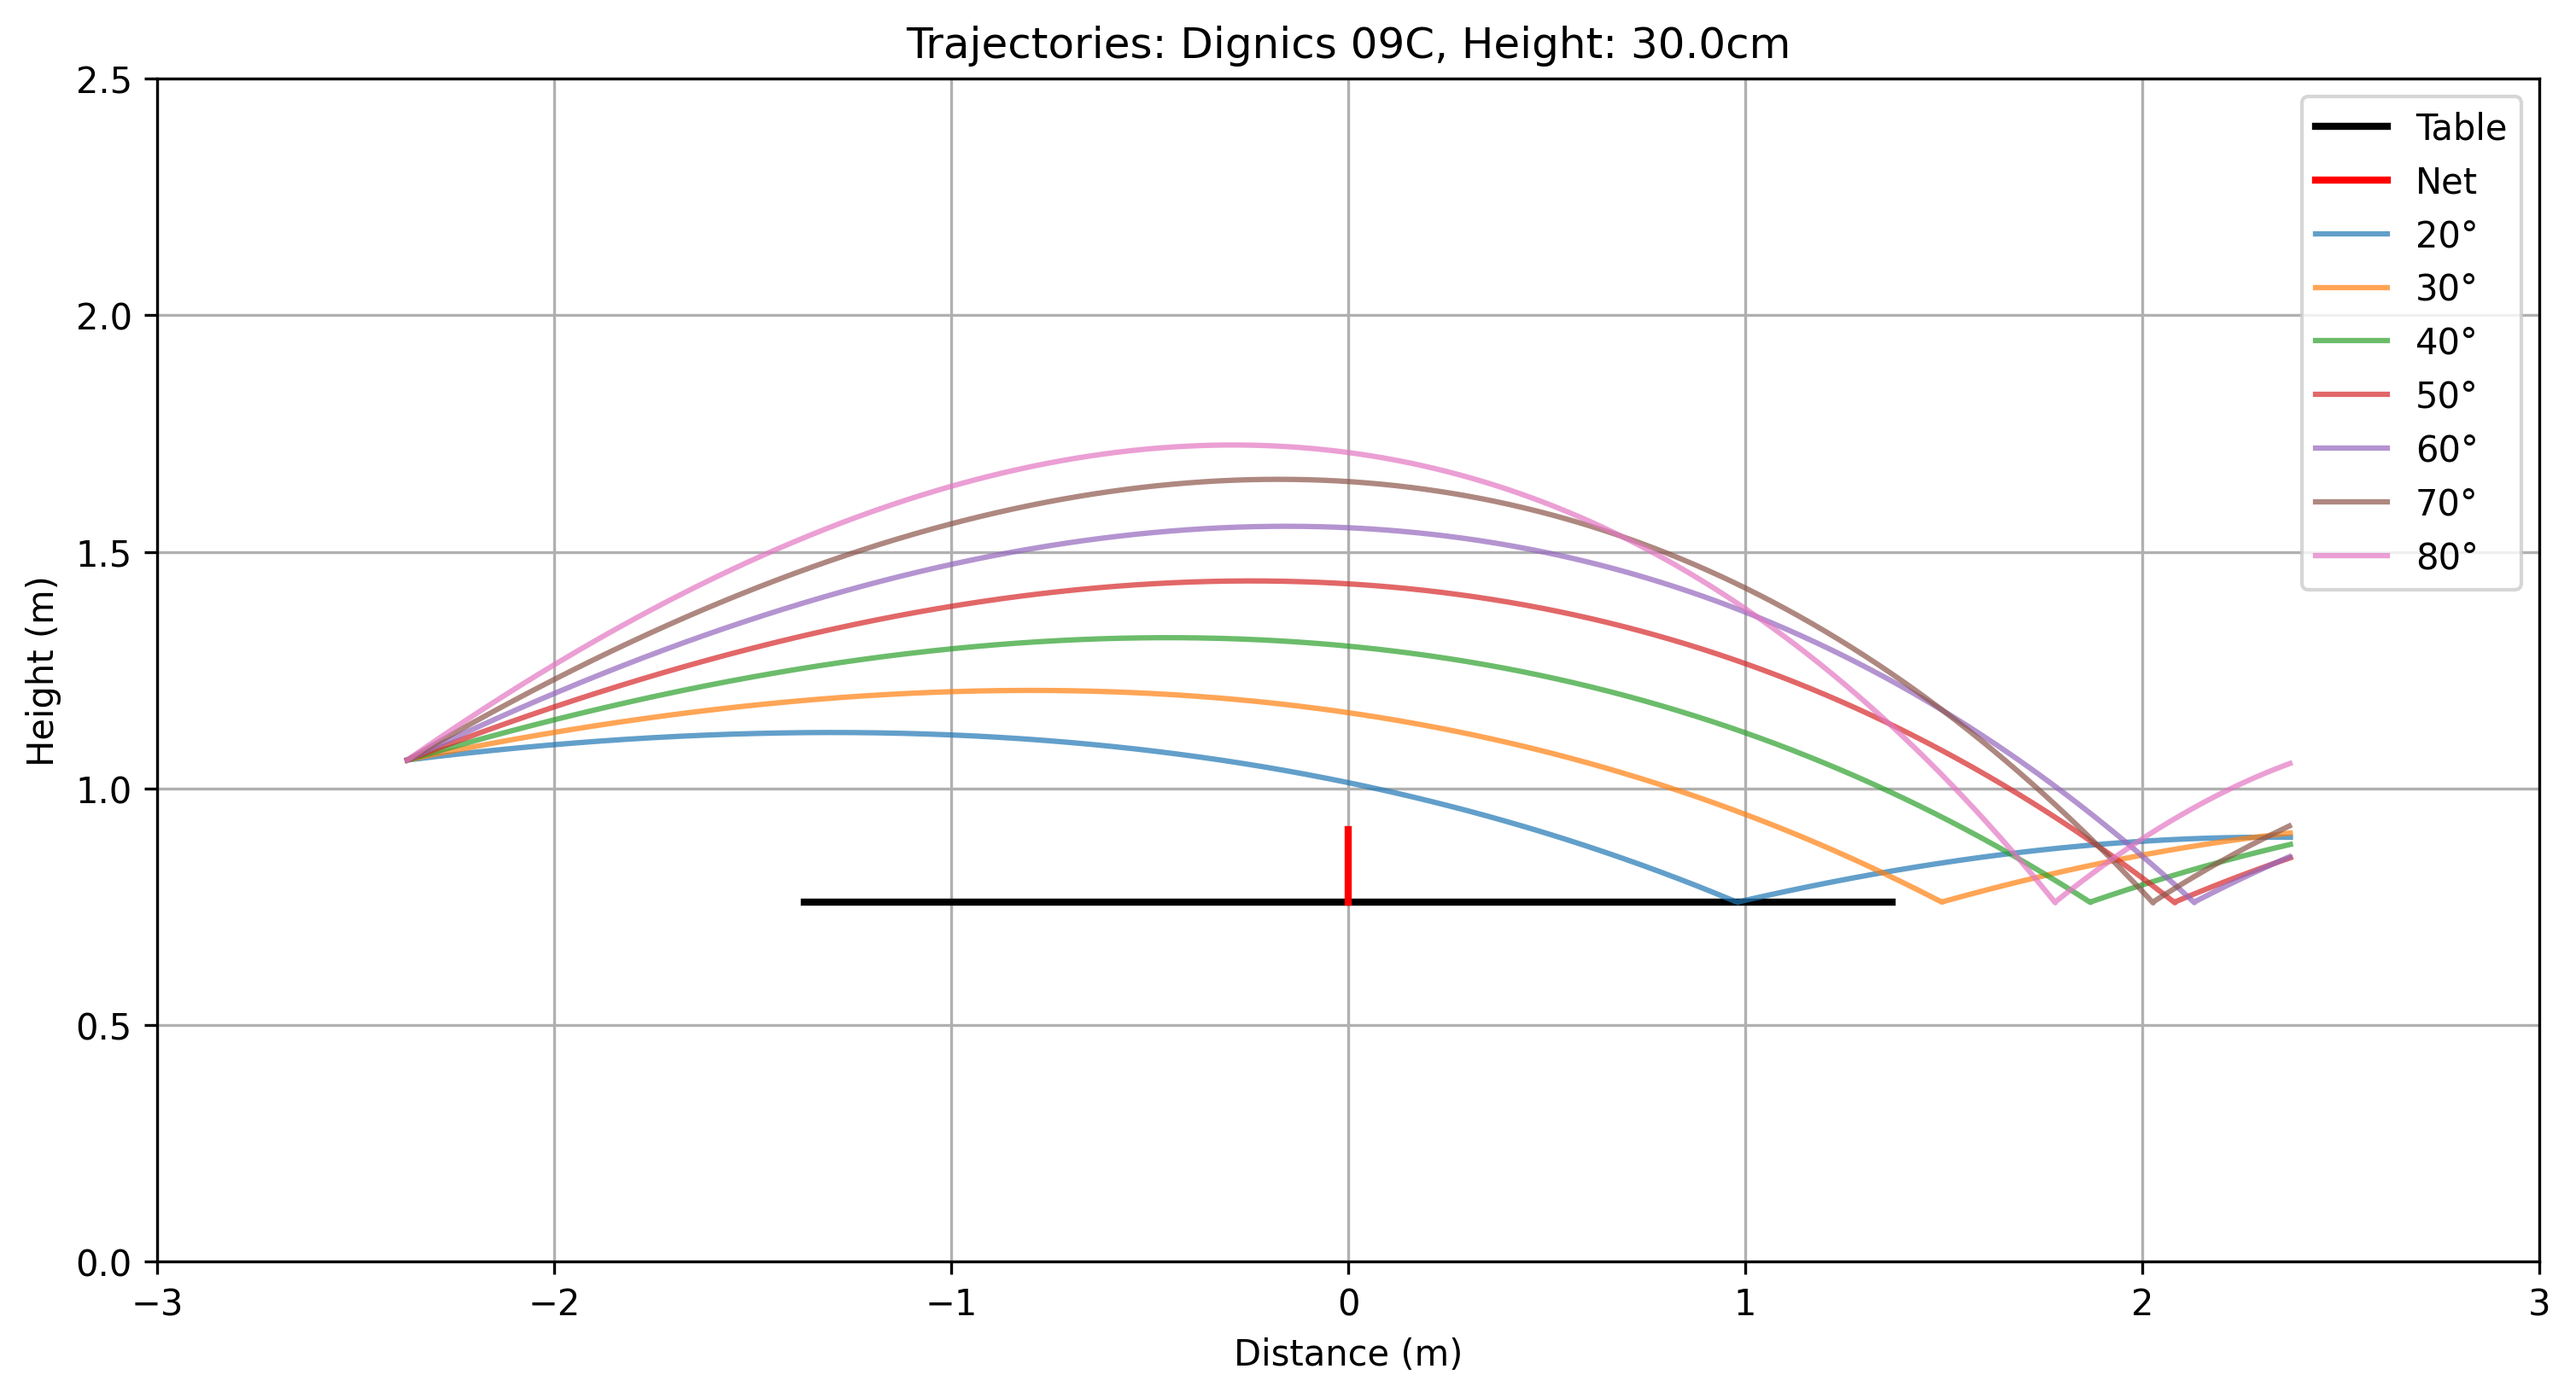
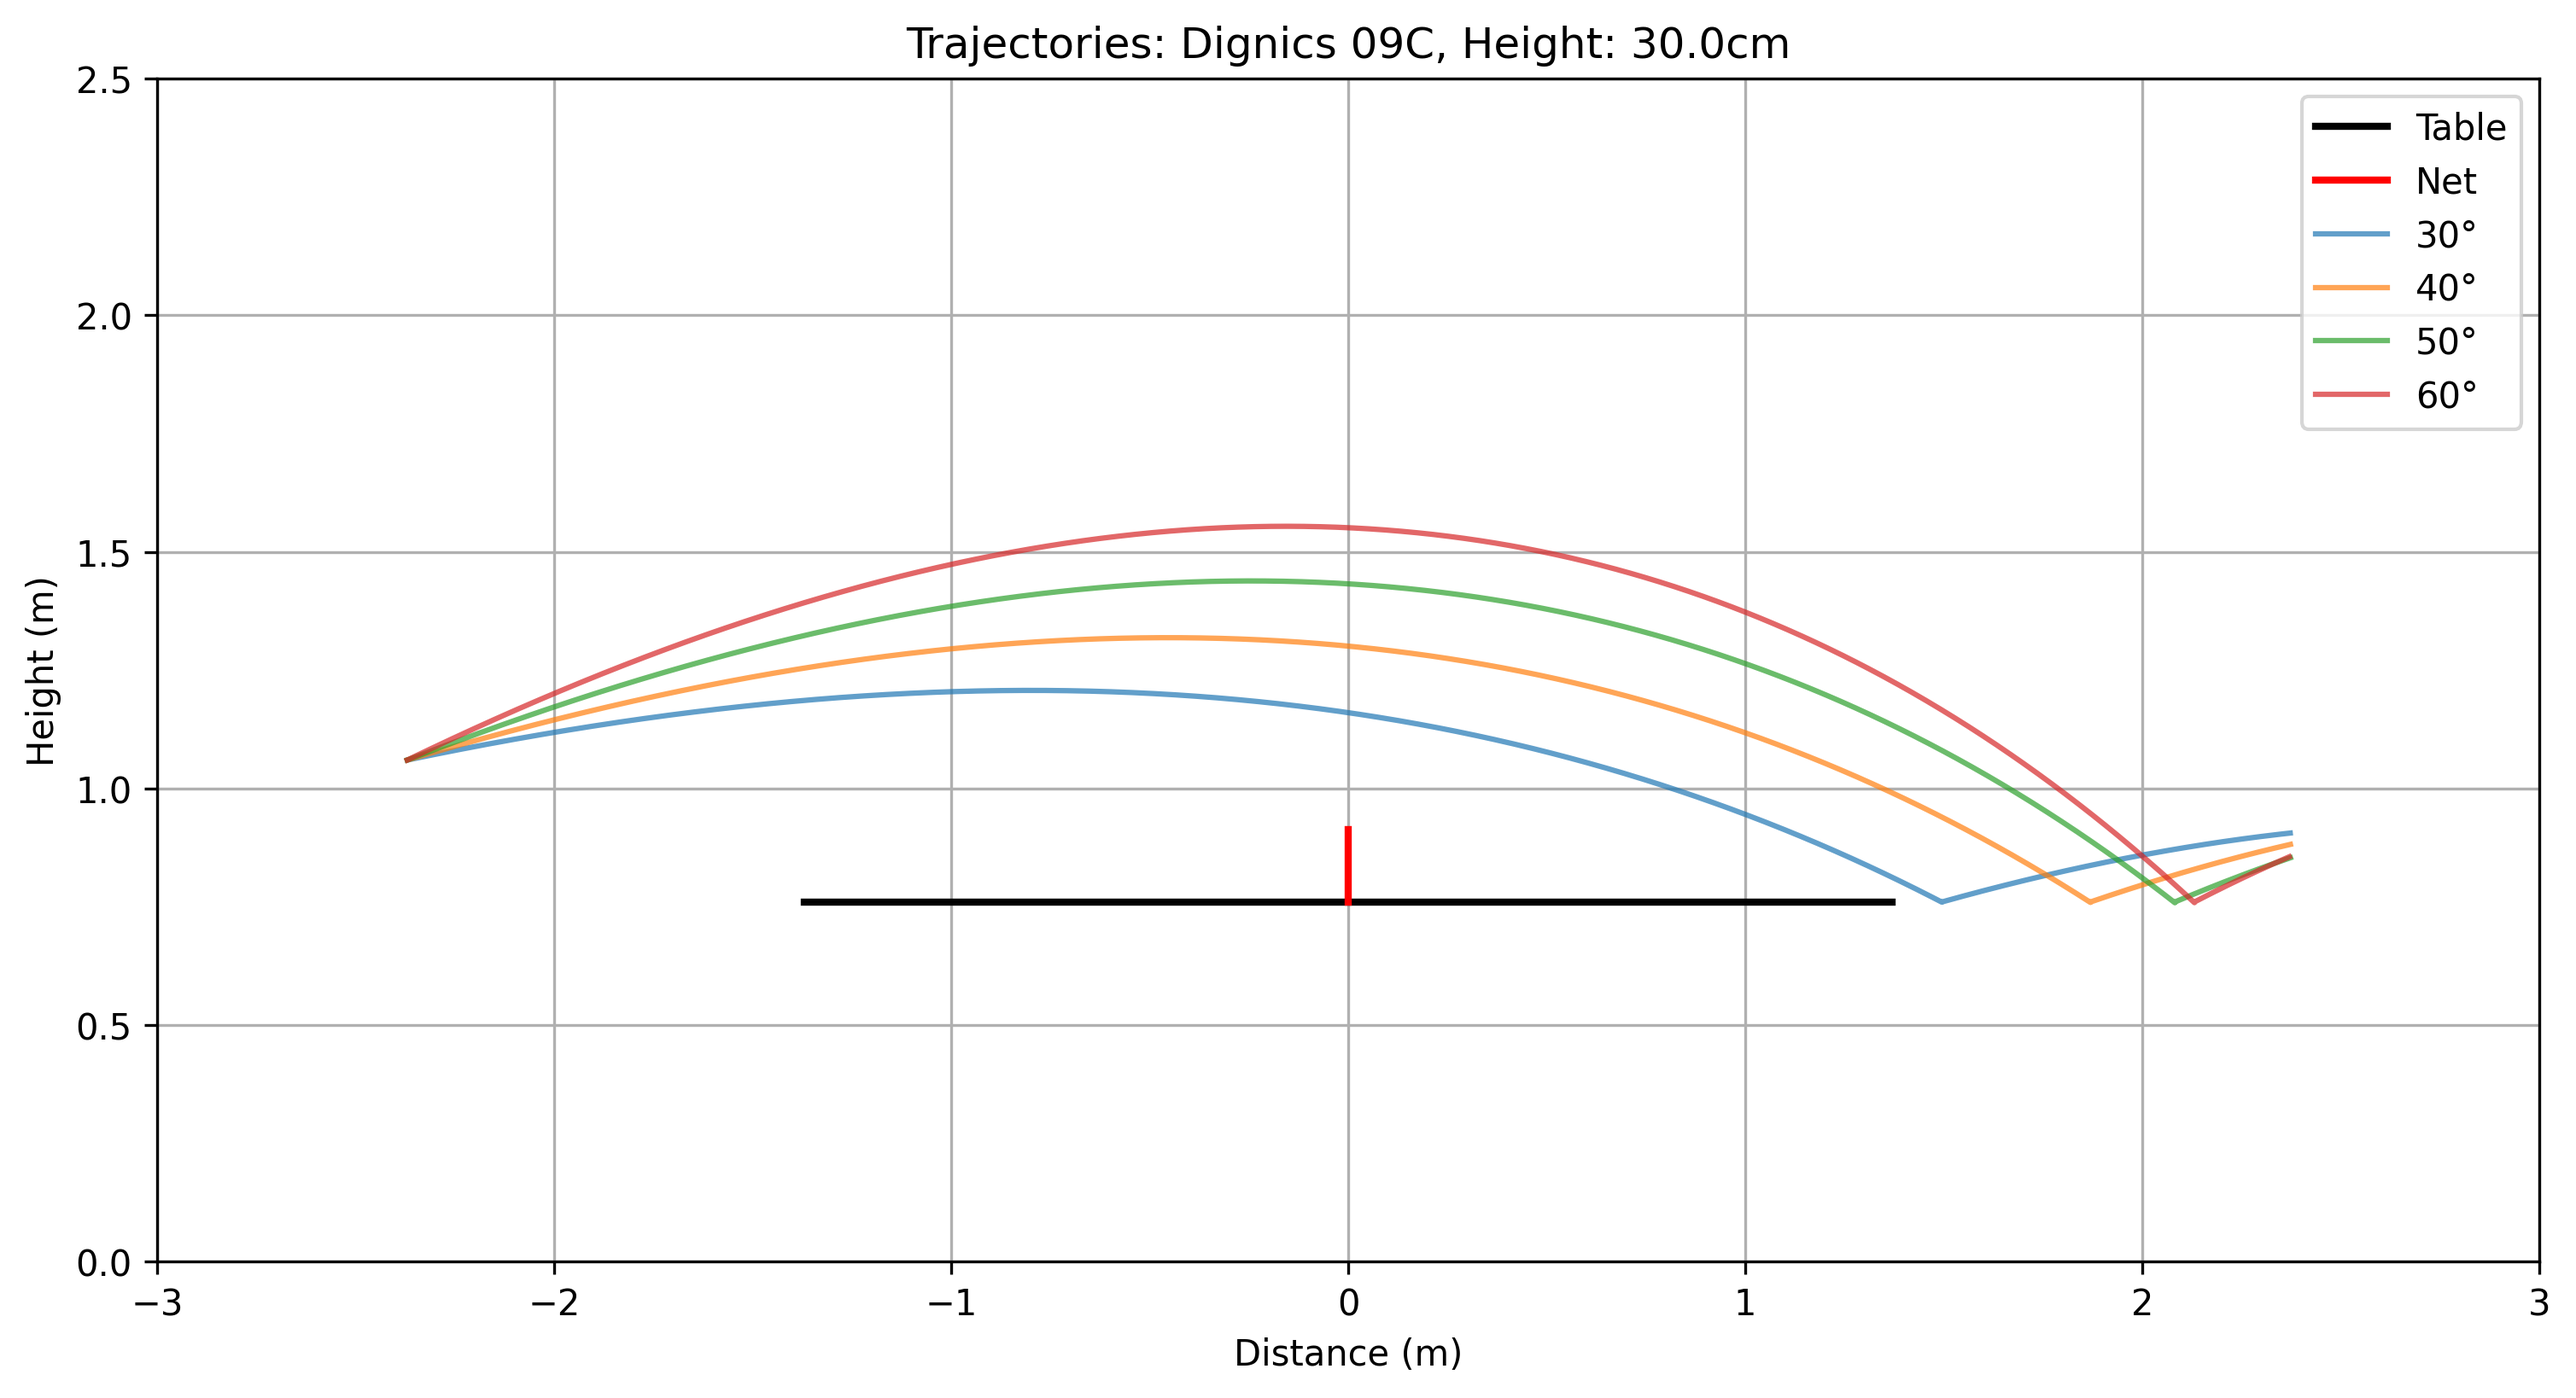
Fri Apr 18 02:23:15 PM HKT 2025

diff --git a/results/all_trajectories.html b/results/all_trajectories.html
@@ -6,52 +6,70 @@
 <img src="trajectories_Hurricane_3_Neo_20cm.png" alt="Trajectories">
 <h2>Hurricane 3 Neo, Height: 30.0cm</h2>
 <img src="trajectories_Hurricane_3_Neo_30cm.png" alt="Trajectories">
+<h2>Hurricane 3 Neo, Height: 40.0cm</h2>
+<img src="trajectories_Hurricane_3_Neo_40cm.png" alt="Trajectories">
 <h2>Tenergy 05 FX, Height: 10.0cm</h2>
 <img src="trajectories_Tenergy_05_FX_10cm.png" alt="Trajectories">
 <h2>Tenergy 05 FX, Height: 20.0cm</h2>
 <img src="trajectories_Tenergy_05_FX_20cm.png" alt="Trajectories">
 <h2>Tenergy 05 FX, Height: 30.0cm</h2>
 <img src="trajectories_Tenergy_05_FX_30cm.png" alt="Trajectories">
+<h2>Tenergy 05 FX, Height: 40.0cm</h2>
+<img src="trajectories_Tenergy_05_FX_40cm.png" alt="Trajectories">
 <h2>Tenergy 05, Height: 10.0cm</h2>
 <img src="trajectories_Tenergy_05_10cm.png" alt="Trajectories">
 <h2>Tenergy 05, Height: 20.0cm</h2>
 <img src="trajectories_Tenergy_05_20cm.png" alt="Trajectories">
 <h2>Tenergy 05, Height: 30.0cm</h2>
 <img src="trajectories_Tenergy_05_30cm.png" alt="Trajectories">
+<h2>Tenergy 05, Height: 40.0cm</h2>
+<img src="trajectories_Tenergy_05_40cm.png" alt="Trajectories">
 <h2>Tenergy 05 Hard, Height: 10.0cm</h2>
 <img src="trajectories_Tenergy_05_Hard_10cm.png" alt="Trajectories">
 <h2>Tenergy 05 Hard, Height: 20.0cm</h2>
 <img src="trajectories_Tenergy_05_Hard_20cm.png" alt="Trajectories">
 <h2>Tenergy 05 Hard, Height: 30.0cm</h2>
 <img src="trajectories_Tenergy_05_Hard_30cm.png" alt="Trajectories">
+<h2>Tenergy 05 Hard, Height: 40.0cm</h2>
+<img src="trajectories_Tenergy_05_Hard_40cm.png" alt="Trajectories">
 <h2>Tenergy 19, Height: 10.0cm</h2>
 <img src="trajectories_Tenergy_19_10cm.png" alt="Trajectories">
 <h2>Tenergy 19, Height: 20.0cm</h2>
 <img src="trajectories_Tenergy_19_20cm.png" alt="Trajectories">
 <h2>Tenergy 19, Height: 30.0cm</h2>
 <img src="trajectories_Tenergy_19_30cm.png" alt="Trajectories">
+<h2>Tenergy 19, Height: 40.0cm</h2>
+<img src="trajectories_Tenergy_19_40cm.png" alt="Trajectories">
 <h2>Dignics 09C, Height: 10.0cm</h2>
 <img src="trajectories_Dignics_09C_10cm.png" alt="Trajectories">
 <h2>Dignics 09C, Height: 20.0cm</h2>
 <img src="trajectories_Dignics_09C_20cm.png" alt="Trajectories">
 <h2>Dignics 09C, Height: 30.0cm</h2>
 <img src="trajectories_Dignics_09C_30cm.png" alt="Trajectories">
+<h2>Dignics 09C, Height: 40.0cm</h2>
+<img src="trajectories_Dignics_09C_40cm.png" alt="Trajectories">
 <h2>Dignics 05, Height: 10.0cm</h2>
 <img src="trajectories_Dignics_05_10cm.png" alt="Trajectories">
 <h2>Dignics 05, Height: 20.0cm</h2>
 <img src="trajectories_Dignics_05_20cm.png" alt="Trajectories">
 <h2>Dignics 05, Height: 30.0cm</h2>
 <img src="trajectories_Dignics_05_30cm.png" alt="Trajectories">
+<h2>Dignics 05, Height: 40.0cm</h2>
+<img src="trajectories_Dignics_05_40cm.png" alt="Trajectories">
 <h2>Dignics 80, Height: 10.0cm</h2>
 <img src="trajectories_Dignics_80_10cm.png" alt="Trajectories">
 <h2>Dignics 80, Height: 20.0cm</h2>
 <img src="trajectories_Dignics_80_20cm.png" alt="Trajectories">
 <h2>Dignics 80, Height: 30.0cm</h2>
 <img src="trajectories_Dignics_80_30cm.png" alt="Trajectories">
+<h2>Dignics 80, Height: 40.0cm</h2>
+<img src="trajectories_Dignics_80_40cm.png" alt="Trajectories">
 <h2>Dignics 64, Height: 10.0cm</h2>
 <img src="trajectories_Dignics_64_10cm.png" alt="Trajectories">
 <h2>Dignics 64, Height: 20.0cm</h2>
 <img src="trajectories_Dignics_64_20cm.png" alt="Trajectories">
 <h2>Dignics 64, Height: 30.0cm</h2>
 <img src="trajectories_Dignics_64_30cm.png" alt="Trajectories">
+<h2>Dignics 64, Height: 40.0cm</h2>
+<img src="trajectories_Dignics_64_40cm.png" alt="Trajectories">
 </body></html>

diff --git a/pingpongsim/simulate.py b/pingpongsim/simulate.py
@@ -7,12 +7,14 @@ import os
 
 
 
+
+
 # Physical Constants
 g = 9.81       # Gravitational acceleration (m/s²)
 m = 0.0027     # Ball mass (kg)
 r = 0.02       # Ball radius (m)
 rho = 1.225    # Air density (kg/m³)
-A = np.pi*r**2 # Cross-sectional area (m²)
+A = np.pi * r**2  # Cross-sectional area (m²)
 C_D = 0.47     # Drag coefficient
 C_L = 0.18     # Lift coefficient (adjusted down)
 
@@ -20,19 +22,18 @@ C_L = 0.18     # Lift coefficient (adjusted down)
 table_length = 2.74
 table_height = 0.76
 net_height = 0.1525
-half_table = table_length/2
+half_table = table_length / 2
 total_net_height = table_height + net_height
 
 # Simulation Parameters
 x0 = -2.37            # Starting position (m)
 impact_heights = [0.15, 0.20, 0.25]  # Realistic impact heights (m)
 incoming_speed = 7.5  # m/s (27 km/h)
-incoming_angle = -4.0*np.pi/180  # Slight downward angle
-incoming_spin = 1800*2*np.pi/60  # 1800 rpm backspin
+incoming_angle = -4.0 * np.pi / 180  # Slight downward angle
+incoming_spin = 1800 * 2 * np.pi / 60  # 1800 rpm 
 racket_speed = 7.0    # m/s (25.2 km/h)
 
-# Realistic Rubber Properties
-# Realistic Rubber Properties (Updated with new rubbers)
+
 rubbers = {
     "Hurricane 3 Neo": {"mu": 0.90, "e": 0.76, "kv_x": 0.65, "kv_z": 0.58, "kw": 0.85},
     "Tenergy 05 FX": {"mu": 0.75, "e": 0.72, "kv_x": 0.55, "kv_z": 0.48, "kw": 0.65},
@@ -46,11 +47,13 @@ rubbers = {
 
 }
 
-# Improved bounce parameters (Adjusted for realism)
-e_table = 0.70  # Vertical Coefficient of Restitution (adjusted)
-mu_bounce = 0.80  # Horizontal friction coefficient (adjusted)
-spin_transfer = 0.55  # Adjusted spin retention after bounce
+# Improved bounce parameters for intermediate play
+e_table = 0.70        # Vertical Coefficient of Restitution
+mu_bounce = 0.80      # Horizontal friction coefficient
+spin_transfer = 0.55  # Spin retention after bounce
 I = (2 / 5) * m * r**2  # Moment of inertia for solid sphere
+
+
 
 def calculate_post_impact(rubber, impact_height, swing_angle):
     """Improved impact model with rotational energy consideration."""
@@ -150,7 +153,7 @@ def generate_plot(rubber_name, impact_height, angles):
     ax.plot([-half_table, half_table], [table_height, table_height], 'k-', linewidth=2, label="Table")
     ax.plot([0, 0], [table_height, total_net_height], 'r-', linewidth=2, label="Net")
 
-    # Draw people
+    # Draw trajectories
     colors = plt.cm.tab10.colors
     for i, swing_angle in enumerate(angles):
         swing_angle_rad = swing_angle * np.pi / 180
@@ -196,8 +199,8 @@ def generate_all_plots():
     """Generates plots for all rubbers and impact heights."""
     results = []
     sample_rubbers = list(rubbers.keys())
-    sample_heights = [0.10, 0.20, 0.30]
-    sample_angles = [20, 30, 40, 50, 60, 70, 80]
+    sample_heights = [0.10, 0.20, 0.30, 0.4]
+    sample_angles = [30, 40, 50, 60]  # Intermediate swing angles
 
     for rubber_name in sample_rubbers:
         for height in sample_heights:
@@ -222,7 +225,8 @@ def generate_all_plots():
         f.write("</body></html>")
     with open('./results/all_trajectories.md', 'w') as f:
         for result in results:
-
             f.write('![alt text](' + result["filepath"] + ' "' + result['rubber'] + ' at height ' + str(result['height_cm']) + '")\n')
+
+
 
 generate_all_plots()

diff --git a/results/all_trajectories.md b/results/all_trajectories.md
@@ -1,27 +1,36 @@
 ![alt text](trajectories_Hurricane_3_Neo_10cm.png "Hurricane 3 Neo at height 10.0")
 ![alt text](trajectories_Hurricane_3_Neo_20cm.png "Hurricane 3 Neo at height 20.0")
 ![alt text](trajectories_Hurricane_3_Neo_30cm.png "Hurricane 3 Neo at height 30.0")
+![alt text](trajectories_Hurricane_3_Neo_40cm.png "Hurricane 3 Neo at height 40.0")
 ![alt text](trajectories_Tenergy_05_FX_10cm.png "Tenergy 05 FX at height 10.0")
 ![alt text](trajectories_Tenergy_05_FX_20cm.png "Tenergy 05 FX at height 20.0")
 ![alt text](trajectories_Tenergy_05_FX_30cm.png "Tenergy 05 FX at height 30.0")
+![alt text](trajectories_Tenergy_05_FX_40cm.png "Tenergy 05 FX at height 40.0")
 ![alt text](trajectories_Tenergy_05_10cm.png "Tenergy 05 at height 10.0")
 ![alt text](trajectories_Tenergy_05_20cm.png "Tenergy 05 at height 20.0")
 ![alt text](trajectories_Tenergy_05_30cm.png "Tenergy 05 at height 30.0")
+![alt text](trajectories_Tenergy_05_40cm.png "Tenergy 05 at height 40.0")
 ![alt text](trajectories_Tenergy_05_Hard_10cm.png "Tenergy 05 Hard at height 10.0")
 ![alt text](trajectories_Tenergy_05_Hard_20cm.png "Tenergy 05 Hard at height 20.0")
 ![alt text](trajectories_Tenergy_05_Hard_30cm.png "Tenergy 05 Hard at height 30.0")
+![alt text](trajectories_Tenergy_05_Hard_40cm.png "Tenergy 05 Hard at height 40.0")
 ![alt text](trajectories_Tenergy_19_10cm.png "Tenergy 19 at height 10.0")
 ![alt text](trajectories_Tenergy_19_20cm.png "Tenergy 19 at height 20.0")
 ![alt text](trajectories_Tenergy_19_30cm.png "Tenergy 19 at height 30.0")
+![alt text](trajectories_Tenergy_19_40cm.png "Tenergy 19 at height 40.0")
 ![alt text](trajectories_Dignics_09C_10cm.png "Dignics 09C at height 10.0")
 ![alt text](trajectories_Dignics_09C_20cm.png "Dignics 09C at height 20.0")
 ![alt text](trajectories_Dignics_09C_30cm.png "Dignics 09C at height 30.0")
+![alt text](trajectories_Dignics_09C_40cm.png "Dignics 09C at height 40.0")
 ![alt text](trajectories_Dignics_05_10cm.png "Dignics 05 at height 10.0")
 ![alt text](trajectories_Dignics_05_20cm.png "Dignics 05 at height 20.0")
 ![alt text](trajectories_Dignics_05_30cm.png "Dignics 05 at height 30.0")
+![alt text](trajectories_Dignics_05_40cm.png "Dignics 05 at height 40.0")
 ![alt text](trajectories_Dignics_80_10cm.png "Dignics 80 at height 10.0")
 ![alt text](trajectories_Dignics_80_20cm.png "Dignics 80 at height 20.0")
 ![alt text](trajectories_Dignics_80_30cm.png "Dignics 80 at height 30.0")
+![alt text](trajectories_Dignics_80_40cm.png "Dignics 80 at height 40.0")
 ![alt text](trajectories_Dignics_64_10cm.png "Dignics 64 at height 10.0")
 ![alt text](trajectories_Dignics_64_20cm.png "Dignics 64 at height 20.0")
 ![alt text](trajectories_Dignics_64_30cm.png "Dignics 64 at height 30.0")
+![alt text](trajectories_Dignics_64_40cm.png "Dignics 64 at height 40.0")
